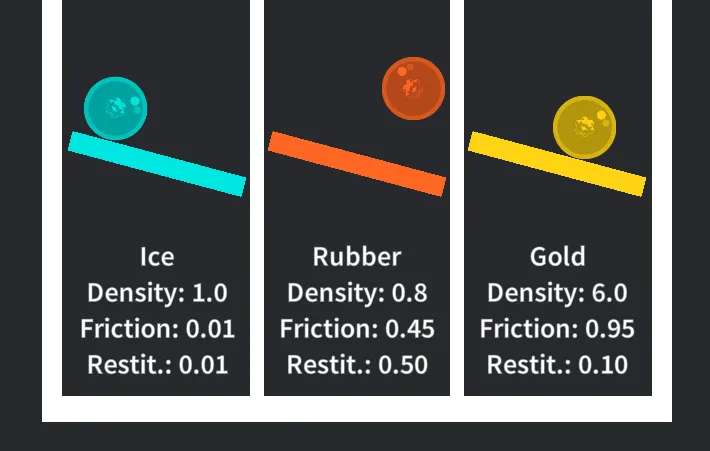
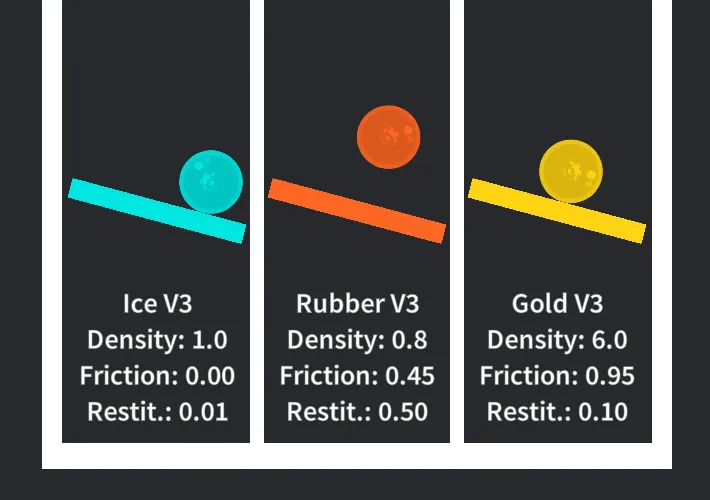
Changed example to spawn 3 balls in similar positions, with no velocity and rotation. Improved description. Updated thumbnail.

Changed region(s): [[0.093, 0.5277, 0.9296, 0.9002], [0.093, 0.1242, 0.9296, 0.4967]]

diff --git a/physics/box2d_material_tuning/example.md b/physics/box2d_material_tuning/example.md
@@ -1,28 +1,29 @@
 ---
 tags: physics, box2d
 title: Box2D Material Properties Tuning
-brief: Tune Box2D density, friction, and restitution from script in both Box2D V2 and V3.
+brief: Tune Box2D density, friction, and restitution from script using Box2D V2 legacy and Box2D V3.
 author: Defold Foundation
 scripts: box2d_material_tuning_v3.script, box2d_material_tuning_v2.script
 thumbnail: thumbnail.webp
 ---
 
-This example compares three dynamic balls whose Box2D material properties are tuned from script. It ships with one script for Box2D V3 and one for Box2D V2 (Legacy Defold version). Each controller carries both components, and the script matching the active backend does the work while the other returns immediately.
+This example compares three dynamic balls whose Box2D material properties are tuned from script. It works with both Box2D V2 legacy and Box2D V3 by attaching one script for each backend. Each script checks `b2d.get_version()` during `init()` and becomes a no-op when the other backend is active.
 
 Click or tap the window to reset the balls and watch the comparison again.
 
 ## What You'll Learn
 
-- How to get a Box2D body from a Defold collision object
-- How to read and tune a V2 fixture with `b2d.body.get_fixtures()` and `b2d.fixture`
-- How to read and tune a V3 shape with `b2d.body.get_shapes()` and `b2d.shape`
-- How to switch the project between Box2D V2 and V3 with app manifests
+* How to get a Box2D body from a Defold collision object
+* How to detect the active Box2D version with `b2d.get_version()`
+* How to tune density, friction, and restitution through the V2 fixture API
+* How to tune density, friction, and restitution through the V3 shape API
+* How to switch the project between Box2D V2 and V3 with app manifests
 
 ## Setup
 
-The collection contains three spawner game objects, one for each material: Ice, Rubber, and Gold. Each spawner carries two script components, one for V3 and one for V2, plus a label component and a local factory component named `ball_factory`.
+The collection contains three spawner game objects, one for each material: Ice, Rubber, and Gold. Each spawner has both backend scripts, a label, and a local factory component named `ball_factory`.
 
-All three factories point at `/example/ball.go`, a shared prototype with one sprite and one dynamic circle collision object. The script creates the ball at the spawner's position, tints the spawned sprite, and gives it starting velocity and spin from the spawner's script properties.
+All three factories point at `/example/ball.go`, a shared prototype with one sprite and one dynamic circle collision object. The active script creates a ball at the spawner's position, tints the spawned sprite, applies the material settings, and gives it a starting velocity and spin from the spawner's script properties.
 
 The material comparison comes from per-instance script property overrides:
 
@@ -30,12 +31,12 @@ The material comparison comes from per-instance script property overrides:
 : Low friction and low restitution, so the ball slides along the ramp.
 
 <kbd>Rubber</kbd>
-: Medium friction and high restitution, so the ball bounces a bit.
+: Medium friction and high restitution, so the ball bounces more.
 
 <kbd>Gold</kbd>
-: High density, high friction, and almost no restitution, so the ball settles quickly.
+: High density, high friction, and low restitution, so the ball feels heavier and settles quickly.
 
-The static scene is built from walls, two lane dividers, and three ramps. The ramps use the `pixel_blue`, `pixel_orange`, and `pixel_gold` atlas animations to match the three spawner labels.
+The static scene is built from white walls, and three colored ramps.
 
 ![setup](setup.png)
 
@@ -45,10 +46,16 @@ The `game.project` of this example is configured to build with `/box2d_v3.appman
 
 ## How It Works
 
-`go.property()` exposes the material settings on each script instance, so the Ice, Rubber, and Gold spawners can use the same values in both backend scripts. The label is addressed as `#label`, because it is attached to the same game object as the scripts.
+Both scripts read `b2d.get_version()` once. `box2d_material_tuning_v2.script` only continues when the major version is 2, while `box2d_material_tuning_v3.script` only continues when the major version is 3.
 
-`b2d.get_body()` returns the Box2D body owned by the spawned collision object. The V2 script reads the first fixture with `b2d.body.get_fixtures()` and uses the `b2d.fixture` API to update density, friction, and restitution.
+`go.property()` exposes the material settings on each script instance. The Ice, Rubber, and Gold spawners use the same scripts, but each spawner overrides density, friction, restitution, velocity, spin, tint, and material name in the collection.
 
-The V3 script reads the first shape with `b2d.body.get_shapes()` and uses the `b2d.shape` API to update density, friction, and restitution. After changing density, it calls `b2d.body.reset_mass_data()` so the body mass reflects the new value immediately.
+`b2d.get_body()` returns the Box2D body owned by the spawned ball's collision object. The active script then updates the ball with the backend-specific material API.
 
-Clicking or tapping makes each active spawner delete its current ball, spawn a fresh one from its own factory, and reapply its material settings for the current backend.
+There is a significant difference between Box2D V2 legacy and Box2D V3.
+
+In Box2D V2 legacy, collision geometry and material properties are attached to a body through fixtures. The V2 script reads the first fixture with `b2d.body.get_fixtures()` and uses `b2d.fixture.set_density()`, `b2d.fixture.set_friction()`, and `b2d.fixture.set_restitution()` to tune the ball. When setting density, the script asks Box2D to update the body mass from the new value.
+
+In Box2D V3, the script uses the shape API instead of the V2 fixture API. It reads the first shape with `b2d.body.get_shapes()` and uses `b2d.shape.set_density()`, `b2d.shape.set_friction()`, and `b2d.shape.set_restitution()`. After changing density, it calls `b2d.body.reset_mass_data()` so the body mass reflects the new density immediately.
+
+After applying the values, each script reads them back and shows them on the label attached to the same spawner. Clicking or tapping makes each active spawner delete its current ball, spawn a fresh one from its own factory, and reapply its material settings for the current backend.